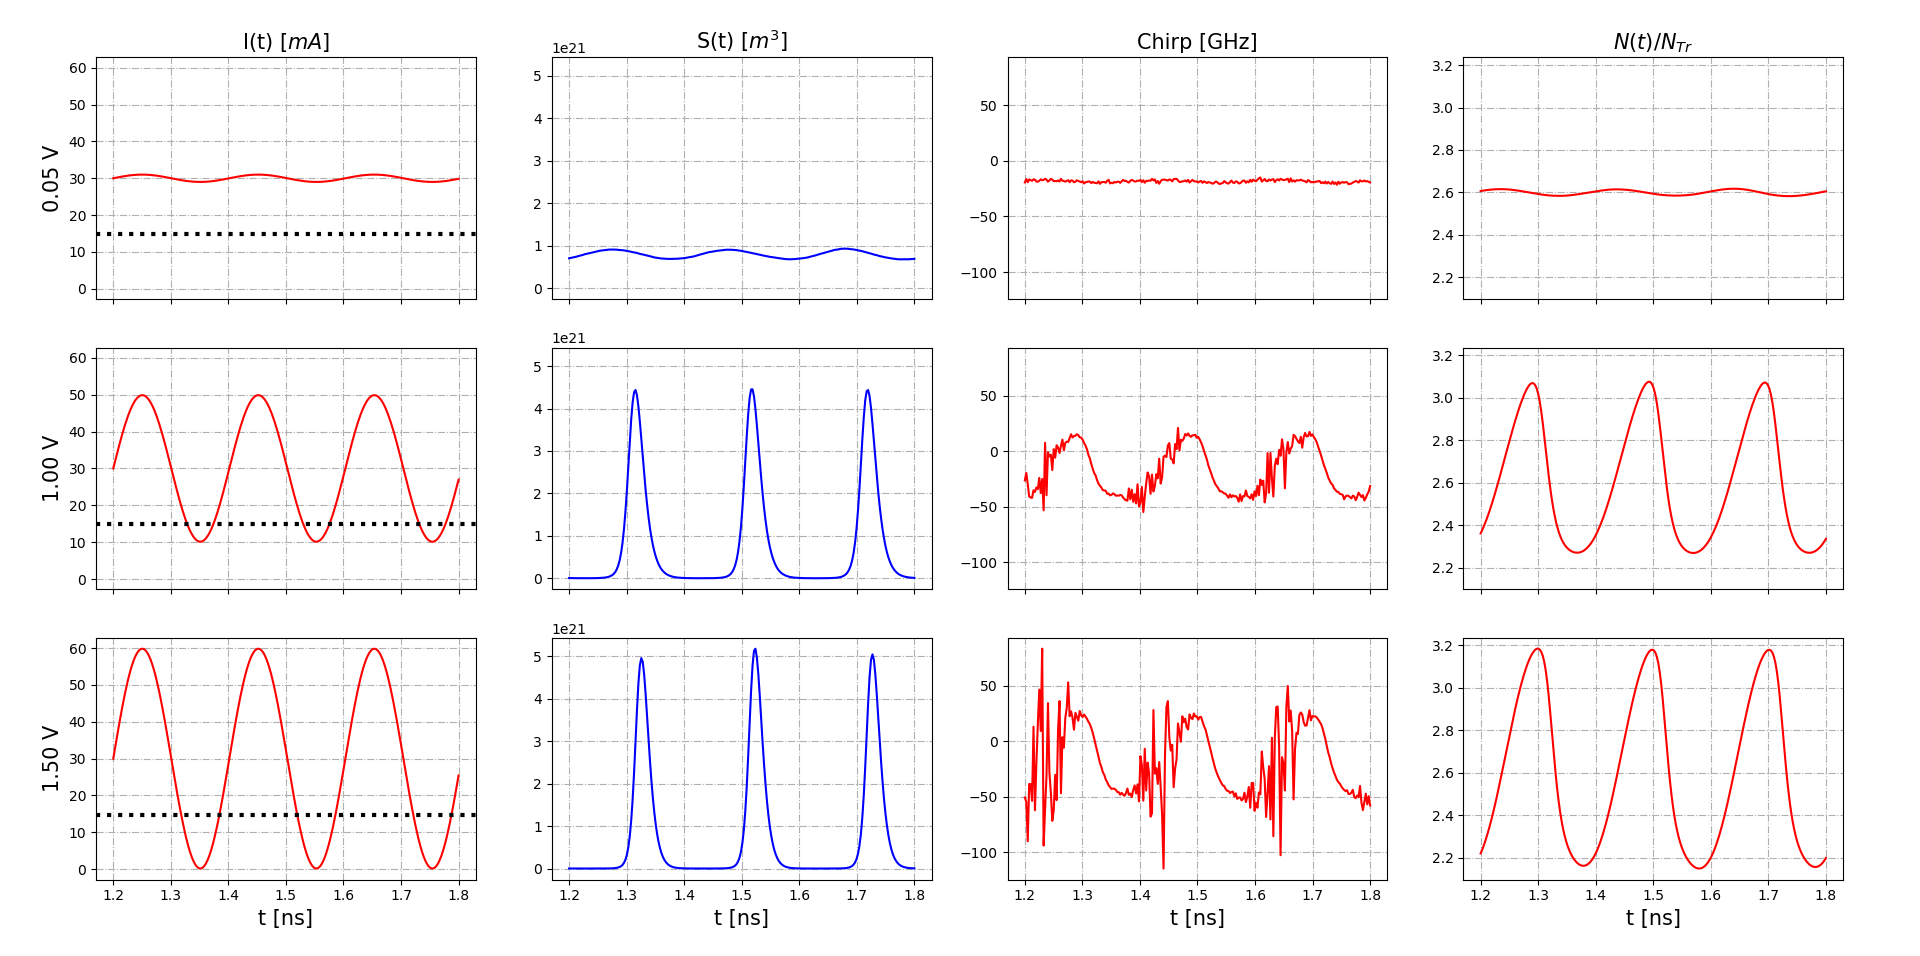
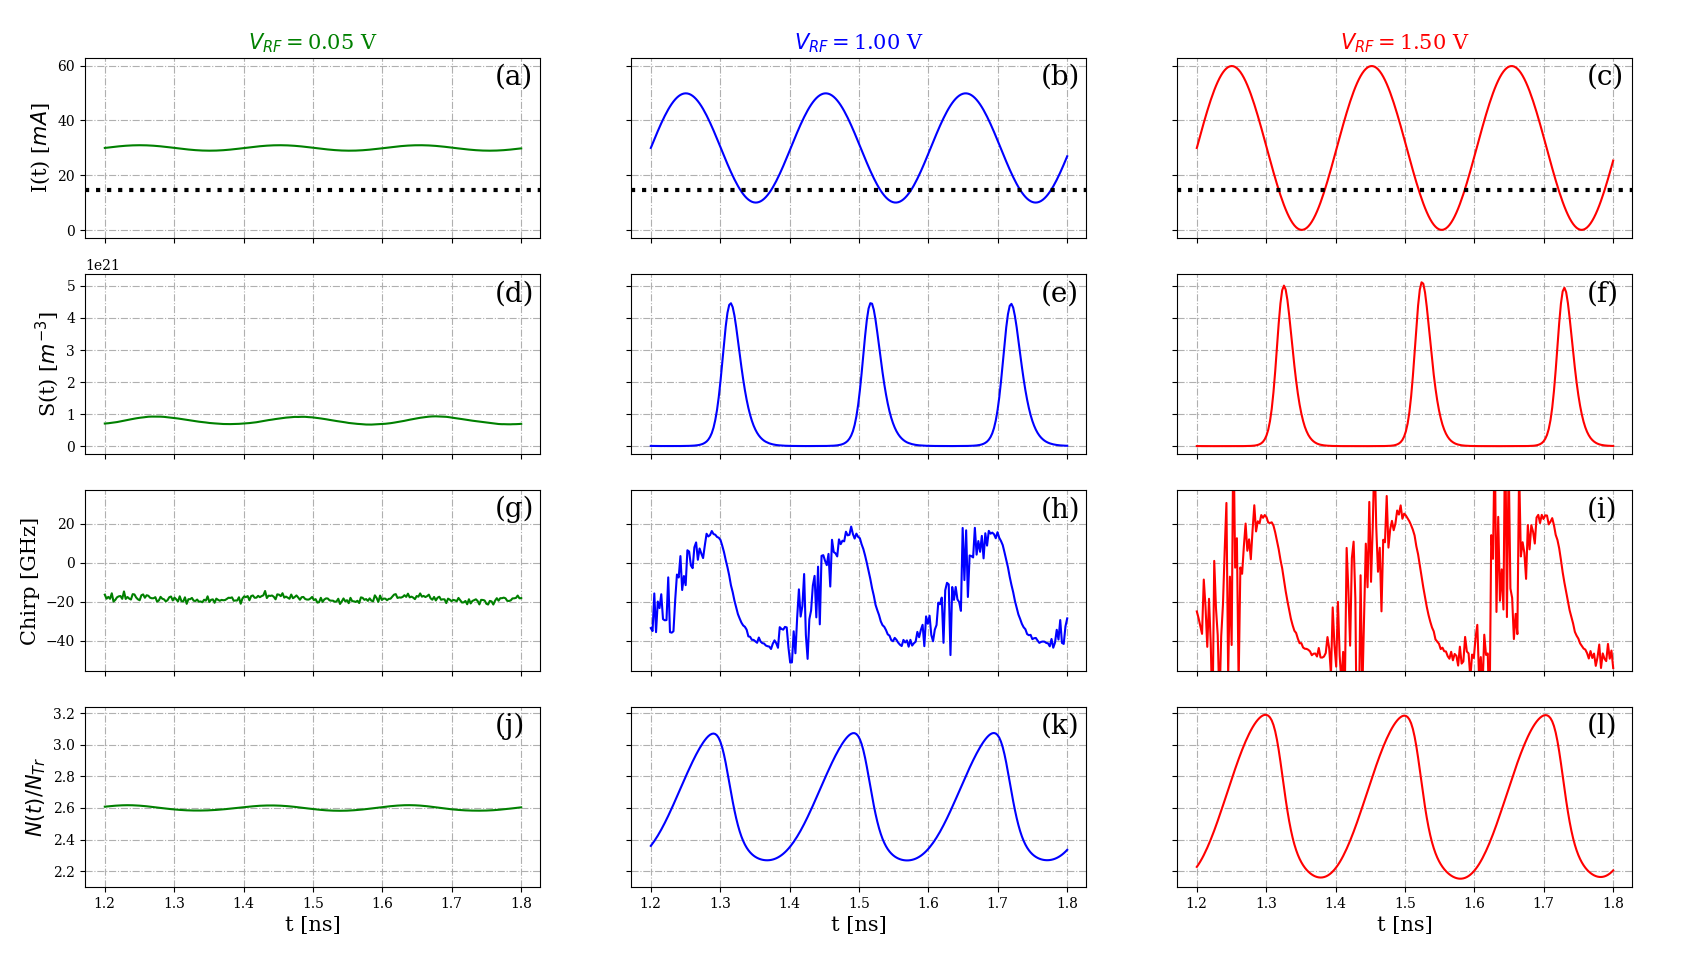
Change the graph

Changed region(s): [[0.0, 0.0303, 0.9665, 0.9707], [0.3429, 0.364, 0.3741, 0.3944], [0.1559, 0.364, 0.1871, 0.3944]]

diff --git a/src/rateEquations.py b/src/rateEquations.py
@@ -9,6 +9,10 @@
 """
 
 import numpy as np
+
+from matplotlib import rcParams
+rcParams['font.family'] = 'serif'
+
 import matplotlib.pyplot as plt
 import cmath
 
@@ -18,6 +22,10 @@ from getTempValues import getDeltaT
 iBias = 30  # bias current [mA] / must be in [C ns^-1] by multiplying *10**-12
 vRF = [0.05 *10**(-9), 1 *10**(-9), 1.5 * 10**(-9)] #RMS voltage value of the signal generator [V]
 colors = ['g', 'b', 'r']
+graphLabel = [['(a)', '(b)', '(c)'],
+              ['(d)', '(e)', '(f)'],
+              ['(g)', '(h)', '(i)'],
+              ['(j)', '(k)', '(l)']]
 
 deltaT = getDeltaT(iBias)
 
@@ -133,23 +141,34 @@ for i in range(len(vRF)):
     ##  Representacion de los Datos
     #########################################
 
-    axs[0][i].set_title("$V_{RF} = $%.2f V" %(vRF[i] * 10**9), color=colors[i], fontsize=15)
+    axs[0][i].set_title("$V_{RF} = $%.2f V" %(vRF[i] * 10**9), color=colors[i],
+                                                                    fontsize=15)
 
     axs[0][i].plot(timePeriod, I, colors[i])
     axs[0][i].axhline(y=14.8, linestyle=":", color='k', linewidth=3)
     axs[0][i].grid(linestyle='-.')
+    axs[0][i].annotate(graphLabel[0][i], (0.9, 0.85),
+                                            xycoords='axes fraction', size=20)
+    #axs[0][i].text(0.25, 0.75, graphLabel[0][i])
 
     axs[1][i].plot(timePeriod, S, colors[i])
     axs[1][i].grid(linestyle='-.')
+    axs[1][i].annotate(graphLabel[1][i], (0.9, 0.85),
+                                            xycoords='axes fraction', size=20)
 
     axs[2][i].plot(timePeriod, dPhi, colors[i], label="N(t)")
     axs[2][i].grid(linestyle='-.')
+    axs[2][i].annotate(graphLabel[2][i], (0.9, 0.85),
+                                            xycoords='axes fraction', size=20)
+    #axs[2][i].set_ylim([-75, 50])
 
     axs[3][i].plot(timePeriod, N/nTr, colors[i])
     axs[3][i].grid(linestyle='-.')
+    axs[3][i].annotate(graphLabel[3][i], (0.9, 0.85),
+                                            xycoords='axes fraction', size=20)
 
 axs[0][0].set_ylabel("I(t) [$mA$]", fontsize=15)
-axs[1][0].set_ylabel("S(t) [$m^3$]", fontsize=15)
+axs[1][0].set_ylabel("S(t) [$m^{-3}$]", fontsize=15)
 axs[2][0].set_ylabel("Chirp [GHz]", fontsize=15)
 axs[3][0].set_ylabel("$N(t) / N_{Tr}$", fontsize=15)
 
